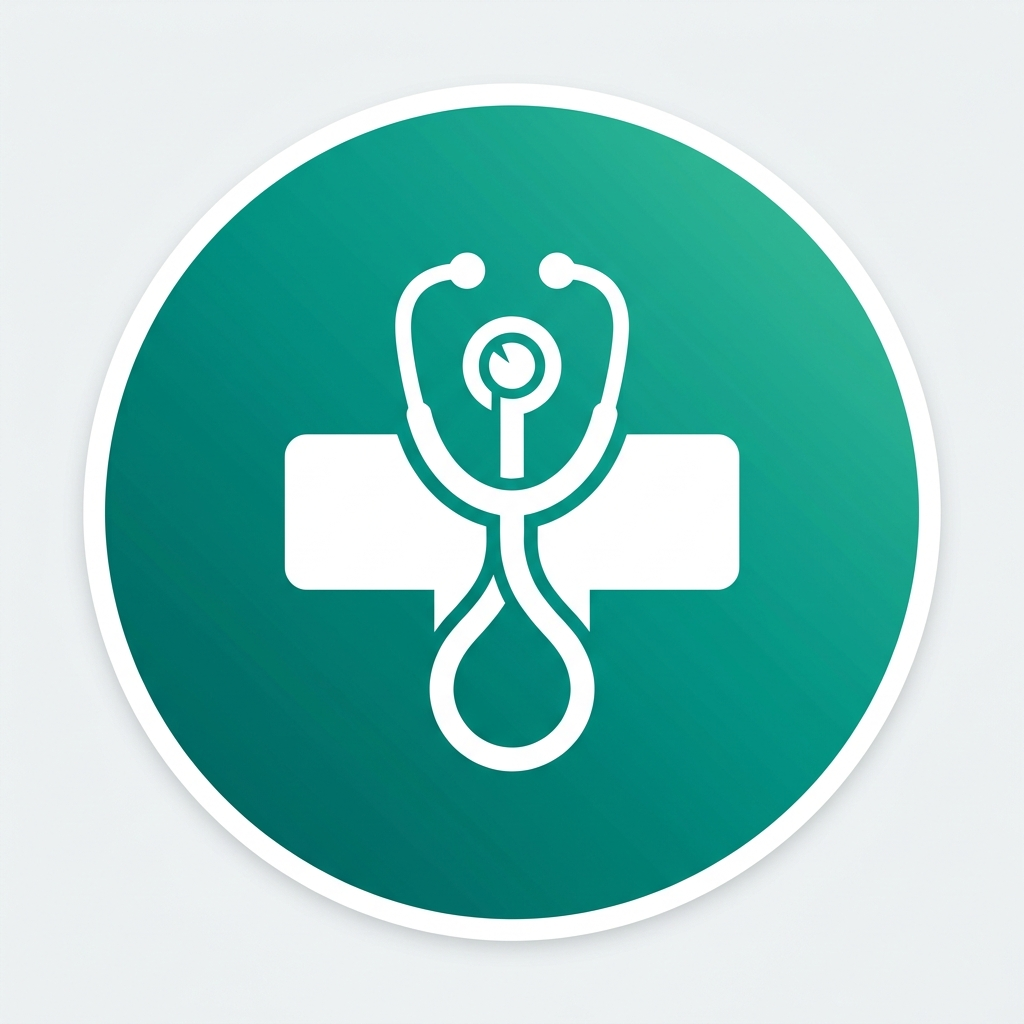
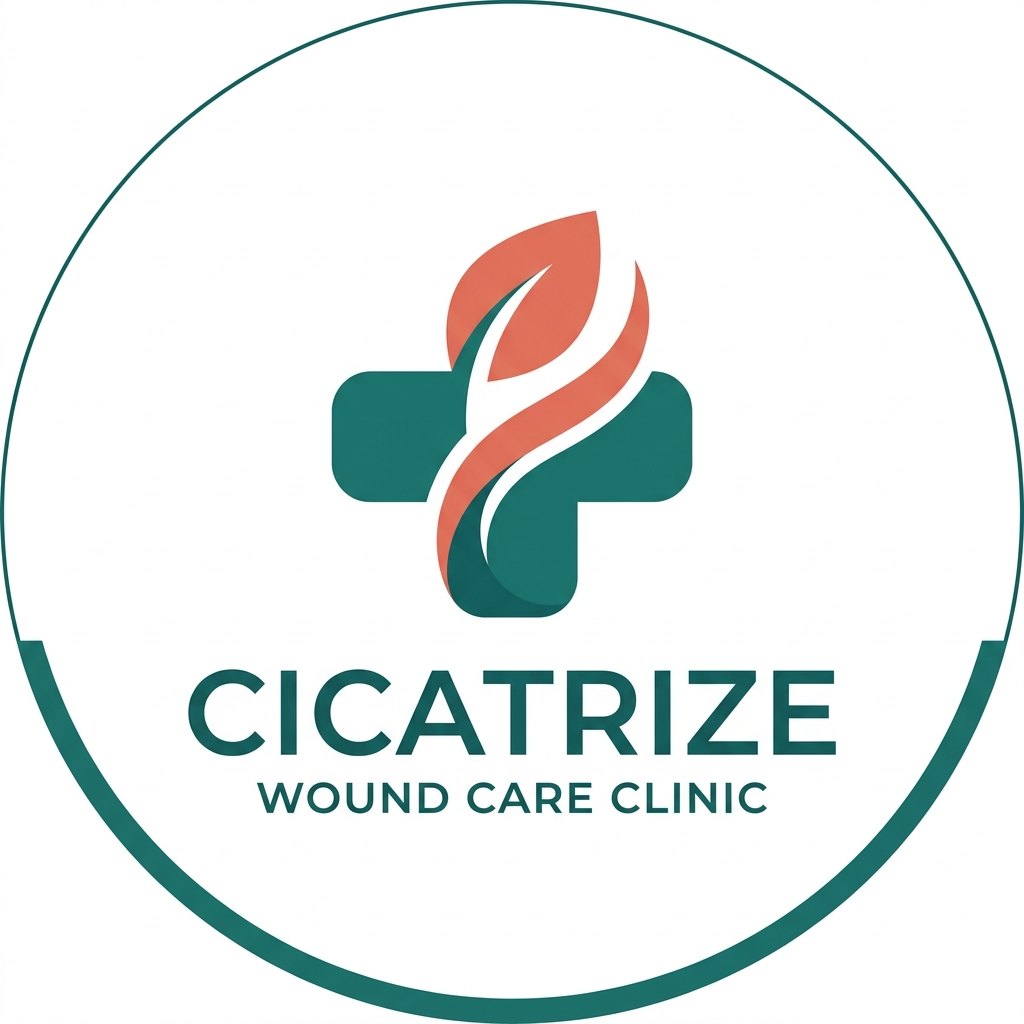
feat: adapt frontend and n8n for Clinica Cicatrize demo
- Webhook URL updated to /cicatrize/chat
- localStorage keys prefixed with cicatrize_
- Identity text: Clinica Cicatrize, Ana, Dra. Christiane
- Specialty updated: Tratamento de Feridas
- New clinic avatar generated

diff --git a/frontend/app.js b/frontend/app.js
@@ -5,12 +5,12 @@
 
 // ============ CONFIG ============
 const CONFIG = {
-  // Production webhook (workflow is active)
-  // To test with editor open, change to: .../webhook-test/clinicai/chat
-  webhookUrl: 'https://n8n.srv1181762.hstgr.cloud/webhook/clinicai/chat',
-  sessionKey: 'clinicai_session_id',
-  historyKey: 'clinicai_history',
-  soundKey: 'clinicai_sound',
+  // Production webhook — Cicatrize demo
+  // To test with editor open, change to: .../webhook-test/cicatrize/chat
+  webhookUrl: 'https://n8n.srv1181762.hstgr.cloud/webhook/cicatrize/chat',
+  sessionKey: 'cicatrize_session_id',
+  historyKey: 'cicatrize_history',
+  soundKey: 'cicatrize_sound',
   maxRetries: 2,
   retryDelay: 2000,
 };
@@ -84,7 +84,7 @@ function init() {
   // If no messages yet, show initial bot greeting
   if (state.messages.length === 0) {
     setTimeout(() => {
-      addBotMessage('Oi! Aqui é a Alice, da Clínica Geral.');
+      addBotMessage('Oi! Aqui é a Ana, da Clínica Cicatrize.');
       setTimeout(() => {
         addBotMessage('Precisa de alguma coisa?');
       }, 1000);
@@ -544,7 +544,7 @@ function startNewConversation() {
 
   // Greeting after reset
   setTimeout(() => {
-    addBotMessage('Oi! Aqui é a Alice, da Clínica Geral.');
+    addBotMessage('Oi! Aqui é a Ana, da Clínica Cicatrize.');
     setTimeout(() => {
       addBotMessage('Precisa de alguma coisa?');
     }, 1000);
@@ -574,7 +574,7 @@ function exportConversation() {
     return;
   }
 
-  let text = `Conversa — Clínica Geral\n`;
+  let text = `Conversa — Clínica Cicatrize\n`;
   text += `Exportado em: ${new Date().toLocaleString('pt-BR')}\n`;
   text += `Sessão: ${state.sessionId}\n`;
   text += '—'.repeat(40) + '\n\n';

diff --git a/frontend/index.html b/frontend/index.html
@@ -3,8 +3,8 @@
 <head>
   <meta charset="UTF-8">
   <meta name="viewport" content="width=device-width, initial-scale=1.0">
-  <title>Clínica Geral — Atendimento WhatsApp</title>
-  <meta name="description" content="Agende sua consulta pelo WhatsApp com a Alice, da Clínica Geral.">
+  <title>Clínica Cicatrize — Atendimento WhatsApp</title>
+  <meta name="description" content="Agende sua consulta pelo WhatsApp com a Ana, da Clínica Cicatrize — especializada em tratamento de feridas.">
   <meta name="theme-color" content="#008069">
   <link rel="icon" href="assets/clinic-avatar.png" type="image/png">
   <link rel="stylesheet" href="style.css?v=3">
@@ -42,7 +42,7 @@
         <div class="contact-avatar"><img src="assets/clinic-avatar.png" alt="Clínica" width="49" height="49"></div>
         <div class="contact-info">
           <div class="contact-info-top">
-            <span class="contact-name">Clínica Geral</span>
+            <span class="contact-name">Clínica Cicatrize</span>
             <span class="contact-time unread" id="sidebarTime">agora</span>
           </div>
           <div class="contact-info-bottom">
@@ -63,7 +63,7 @@
         </div>
         <div class="clinic-info-item">
           <svg viewBox="0 0 24 24"><path d="M19 3H5a2 2 0 00-2 2v14a2 2 0 002 2h14a2 2 0 002-2V5a2 2 0 00-2-2zm-7 3a3.5 3.5 0 110 7 3.5 3.5 0 010-7zm7 13H5v-.2c0-.6.3-1.2.8-1.6C7.5 15.8 9.6 15 12 15s4.5.8 6.2 2.2c.5.4.8 1 .8 1.6V19z"/></svg>
-          <div class="info-content"><div class="info-label">Especialidades</div><div class="info-value">Geriatria • Gastroenterologista</div></div>
+          <div class="info-content"><div class="info-label">Especialidade</div><div class="info-value">Tratamento de Feridas • Dra. Christiane</div></div>
         </div>
       </div>
     </div>
@@ -75,7 +75,7 @@
       <button class="back-btn" id="backBtn" aria-label="Voltar"><svg viewBox="0 0 24 24"><path d="M12 4l1.4 1.4L7.8 11H20v2H7.8l5.6 5.6L12 20l-8-8z"/></svg></button>
       <div class="chat-header-avatar"><img src="assets/clinic-avatar.png" alt="Clínica" width="40" height="40"></div>
       <div class="chat-header-info">
-        <div class="chat-header-name">Clínica Geral</div>
+        <div class="chat-header-name">Clínica Cicatrize</div>
         <div class="chat-header-status" id="chatStatus">online</div>
       </div>
       <div class="chat-header-actions">